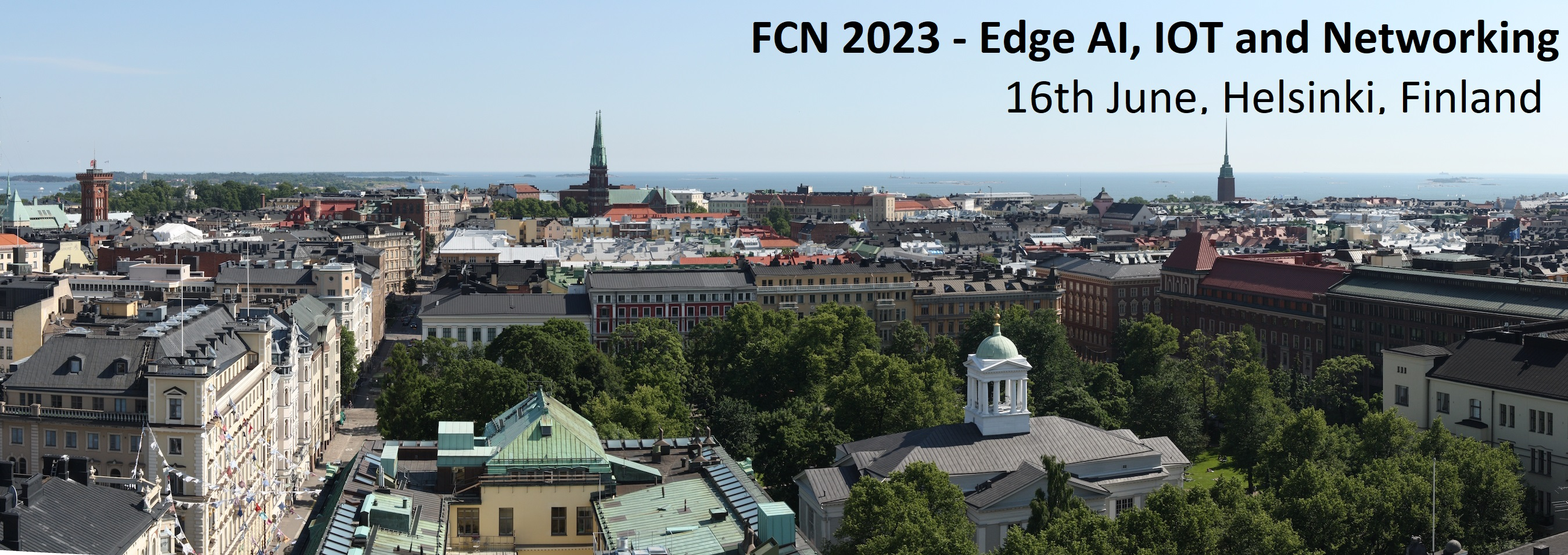
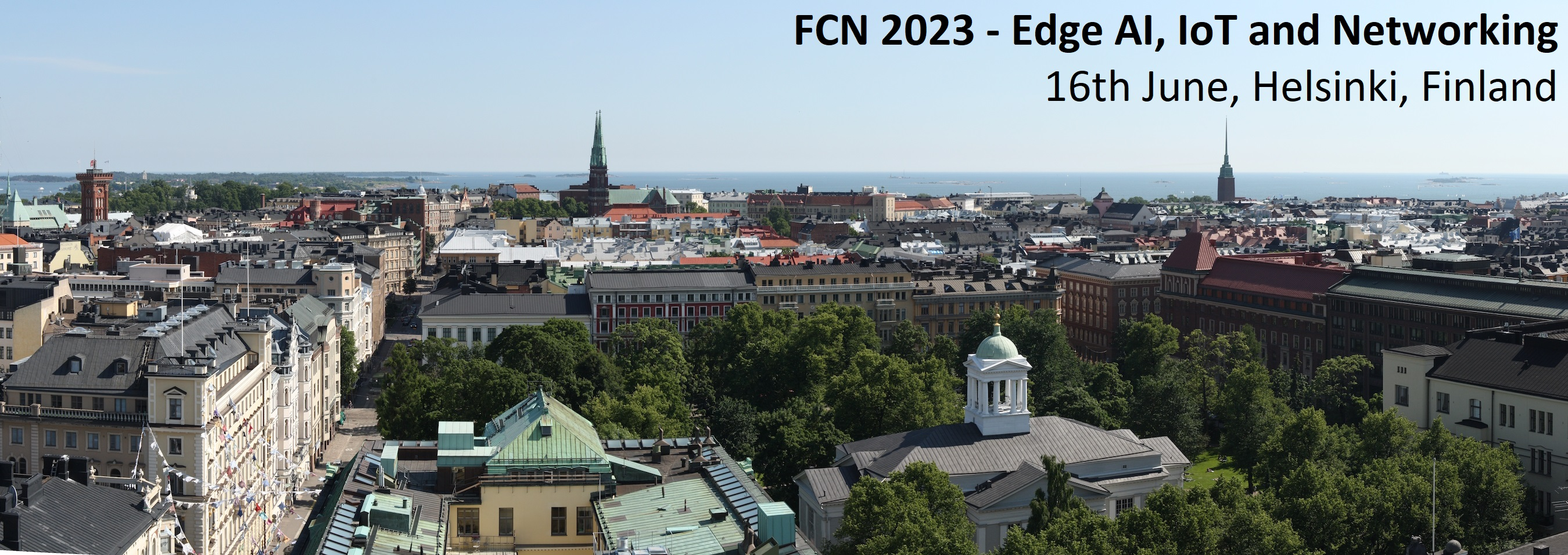
page update

Changed region(s): [[0.4668, 0.0303, 0.9959, 0.2121]]

diff --git a/fcn/2023/participants.html b/fcn/2023/participants.html
@@ -8,7 +8,7 @@
   <!--[if IE]>
     <meta http-equiv="X-UA-Compatible" content="IE=edge,chrome=1">
   <![endif]-->
-  <title>FCN 2022</title>
+  <title>FCN 2023</title>
   <!-- BOOTSTRAP CORE STYLE  -->
   <link href="lib/css/bootstrap.css" rel="stylesheet" />
   <!-- FONT AWESOME ICONS  -->
@@ -28,8 +28,8 @@
 
   <div class="container">
     <div>
-      <p><img src="lib/resources/fcn2022.jpg" class="img-responsive"
-              alt="Delft"><br /></p>
+      <p><img src="lib/resources/fcn2023.jpg" class="img-responsive"
+              alt="Helsinki"><br /></p>
     </div>
 
 
@@ -38,7 +38,7 @@
 			<div class="row">
 				<div class="col-xs-12 col-sm-3">
 
-          <button onclick="location.href='https://cpi-lab.github.io/fcn/2022/'" type="button" class="btn btn-primary btn-block">Home</button>
+          <button onclick="location.href='https://cpi-lab.github.io/fcn/2023/'" type="button" class="btn btn-primary btn-block">Home</button>
           <button type="button" class="btn btn-primary btn-block active">Participants</button>
           <button onclick="location.href='committee.html'" type="button" class="btn btn-primary btn-block">Committee</button>
           <button onclick="location.href='programme.html'" type="button" class="btn btn-primary btn-block">Programme</button>
@@ -51,16 +51,17 @@
 
 
       <div class="col-xs-12 col-sm-9 text-justify">
-			
+	<!--- 		
         <h1>List of Participants</h1>
 	<p>
         <ul>
+		
 	<h3>On-Site Participants</h3>
 		
-
-            <li><a href="https://sk-alg.tbm.tudelft.nl/aaron/" target="_blank">Aaron Ding</a> (TU Delft, The Netherlands)</li>
+ 
+        <li><a href="https://sk-alg.tbm.tudelft.nl/aaron/" target="_blank">Aaron Ding</a> (TU Delft, The Netherlands)</li>
 	    <li><a href="https://www.tudelft.nl/staff/m.e.warnier/?cHash=3001d902267abe0d5c3754b5c2a4a817" target="_blank">Martijn Warnier</a> (TU Delft, The Netherlands)</li>
-            <li><a href="https://scholar.google.com/citations?user=BZocCJwAAAAJ&hl=nl" target="_blank">Marijn Janssen</a> (TU Delft, The Netherlands)</li>
+        <li><a href="https://scholar.google.com/citations?user=BZocCJwAAAAJ&hl=nl" target="_blank">Marijn Janssen</a> (TU Delft, The Netherlands)</li>
 	    <li><a href="https://scholar.google.com/citations?user=1mFRcc0AAAAJ&hl=en" target="_blank">Maarten van Steen</a> (University of Twente, The Netherlands)</li>
 	    <li><a href="https://staff.fnwi.uva.nl/a.d.pimentel/" target="_blank">Andy Pimentel</a> (University of Amsterdam, The Netherlands)</li>
 	    <li><a href="https://scholar.google.nl/citations?user=-NeovbkAAAAJ&hl=en" target="_blank">Nirvana Meratnia</a> (TU Eindhoven, The Netherlands)</li>
@@ -73,7 +74,7 @@
 	    <li><a href="https://www.tudelft.nl/tbm/onze-faculteit/afdelingen/multi-actor-systems/people/assistant-professors/dr-se-simon-parkin" target="_blank">Simon Parkin</a> (TU Delft, The Netherlands)</li>
 	    <li><a href="https://www.cl.cam.ac.uk/~mrd45/" target="_blank">Matthew Danish</a> (Cambridge University, UK)</li>
 	    <li><a href="https://scholar.google.de/citations?user=BRdTMTMAAAAJ&hl=en" target="_blank">Stephan Sigg</a> (Aalto University, Finland)</li>
-            <li><a href="https://sites.google.com/it-caesar.de/homepage/" target="_blank">Holger Caesar</a> (TU Delft, The Netherlands)</li>
+        <li><a href="https://sites.google.com/it-caesar.de/homepage/" target="_blank">Holger Caesar</a> (TU Delft, The Netherlands)</li>
 	    <li><a href="https://scholar.google.com/citations?user=DmY2Hv4AAAAJ&hl=en" target="_blank">Bart van Arem</a> (TU Delft, The Netherlands)</li>
 	    <li><a href="https://mengyingzhou.github.io/" target="_blank">Mengying Zhou</a> (TU Delft | Fudan University, The Netherlands)</li>
 	    <li><a href="https://fernandokuipers.nl/" target="_blank">Fernando Kuipers</a> (TU Delft, The Netherlands)</li>
@@ -135,7 +136,7 @@
             <li><a href="https://scholar.google.be/citations?user=vAPWme0AAAAJ&hl=en" target="_blank">Pieter Simoens</a> (Ghent University imec, Belgium)</li>
             <li><a href="https://scholar.google.com/citations?user=55Lw5_EAAAAJ&hl=en" target="_blank">Mehrdad Asadi</a> (University of Tartu, Estonia)</li>
             <li><a href="https://scholar.google.com/citations?user=mc1M7awAAAAJ&hl=en" target="_blank">Dewant Katare</a> (TU Delft, The Netherlands)</li>
-
+  --->
 	   <!---  
             
 	    <li><a href="https://scholar.google.com/citations?user=0n5S6uUAAAAJ&hl=en" target="_blank">Schahram Dustdar</a> (TU Wien, Austria)</li>
@@ -280,13 +281,13 @@
       <div class="row">
         <div class="col-md-12">
           <p align="center">
-            <a href="https://cpi-lab.github.io/fcn/2022/">Home</a> |
+            <a href="https://cpi-lab.github.io/fcn/2023/">Home</a> |
             <a href="participants.html">Participants</a> |
             <a href="committee.html">Committee</a> |
             <a href="programme.html">Programme</a> |
             <a href="venue.html">Venue</a>
           </p>
-          <p align="center"> &copy; FCN 2022. Powered by <a
+          <p align="center"> &copy; FCN 2023. Powered by <a
                   href="http://getbootstrap.com/" target="_blank">Bootstrap</a>.
           </p>
         <p align="center">

diff --git a/fcn/2023/index.html b/fcn/2023/index.html
@@ -61,9 +61,10 @@
             <div class="panel-body">
 
               <ul>
-                <li><a href="https://cpi-lab.github.io/fcn/2021/">Workshop 2021</a></li>
-		<li><a href="https://cpi-lab.github.io/fcn/2020/">Workshop 2020</a></li>
-		<li><a href="http://fi.ee.tsinghua.edu.cn/~fcg2019/">Workshop 2019</a></li>
+                <li><a href="https://cpi-lab.github.io/fcn/2022/">Workshop 2022</a></li>
+				<li><a href="https://cpi-lab.github.io/fcn/2021/">Workshop 2021</a></li>
+				<li><a href="https://cpi-lab.github.io/fcn/2020/">Workshop 2020</a></li>
+				<li><a href="http://fi.ee.tsinghua.edu.cn/~fcg2019/">Workshop 2019</a></li>
                 <li><a href="http://idatatongji.com/fcg2018/index.html">Workshop 2018</a></li>
                 <li><a href="https://edge17.cm.in.tum.de/index.html">Workshop 2017</a></li>
                 <li><a href="https://www.cs.helsinki.fi/group/close/edge-computing-2016/index.html">Workshop 2016</a></li>
@@ -83,12 +84,12 @@
 			
         <h2>Welcome!</h2>
 				<p>
-The 9th Finland-China-Netherlands workshop on Edge AI, IoT and Networking (FCN 2022) is an academic event jointly organized by TU Delft, University of Helsinki, Tsinghua, TU Munich, and HKUST. The workshop is intended to <a href="https://www.cs.helsinki.fi/en/node/85535">bring together</a> professors, researchers and graduate students to share ideas, experience and implementations related to edge computing, IoT, cyber-physical systems, distributed systems, networking and data analytics.
+The 10th Finland-China-Netherlands workshop on Edge AI, IoT and Networking (FCN 2023) is an academic event jointly organized by University of Helsinki, TU Delft, Tsinghua, TU Munich, and HKUST. The workshop is intended to <a href="https://www.cs.helsinki.fi/en/node/85535">bring together</a> professors, researchers and graduate students to share ideas, experience and implementations related to edge computing, IoT, cyber-physical systems, distributed systems, networking and data analytics.
         </p>
 
   <h3>Host</h3>
+  <a href=https://www.cs.helsinki.fi/en><p> Department of Computer Science, University of Helsinki</p></a>
 
-  <img class="img-responsive" src="lib/resources/TU_Delft_logo_RGB.png" width="230">
 
         <h3>Topics</h3>
         <p>The workshop will cover following areas:</p>
@@ -109,7 +110,7 @@ The 9th Finland-China-Netherlands workshop on Edge AI, IoT and Networking (FCN 2
 
         <h3>Workshop Date</h3>
         <ul>
-          <li>Workshop: November 29, 2022</li>
+          <li>Workshop: June 16, 2023</li>
         </ul>
         <br>
 
@@ -122,13 +123,13 @@ The 9th Finland-China-Netherlands workshop on Edge AI, IoT and Networking (FCN 2
       <div class="row">
         <div class="col-md-12">
           <p align="center">
-            <a href="https://cpi-lab.github.io/fcn/2022/">Home</a> |
+            <a href="https://cpi-lab.github.io/fcn/2023/">Home</a> |
             <a href="participants.html">Participants</a> |
             <a href="committee.html">Committee</a> |
             <a href="programme.html">Programme</a> |
             <a href="venue.html">Venue</a>
           </p>
-          <p align="center"> &copy; FCN 2022. Powered by <a
+          <p align="center"> &copy; FCN 2023. Powered by <a
                   href="http://getbootstrap.com/" target="_blank">Bootstrap</a>.
           </p>
         <p align="center">

diff --git a/fcn/2023/venue.html b/fcn/2023/venue.html
@@ -8,7 +8,7 @@
   <!--[if IE]>
     <meta http-equiv="X-UA-Compatible" content="IE=edge,chrome=1">
   <![endif]-->
-  <title>FCN 2022</title>
+  <title>FCN 2023</title>
   <!-- BOOTSTRAP CORE STYLE  -->
   <link href="lib/css/bootstrap.css" rel="stylesheet" />
   <!-- FONT AWESOME ICONS  -->
@@ -28,8 +28,8 @@
 
   <div class="container">
     <div>
-      <p><img src="lib/resources/fcn2022.jpg" class="img-responsive"
-              alt="Delft"><br /></p>
+      <p><img src="lib/resources/fcn2023.jpg" class="img-responsive"
+              alt="Helsinki"><br /></p>
     </div>
 
 
@@ -38,7 +38,7 @@
 			<div class="row">
 				<div class="col-xs-12 col-sm-3">
 
-          <button onclick="location.href='https://cpi-lab.github.io/fcn/2022/'" type="button" class="btn btn-primary btn-block">Home</button>
+          <button onclick="location.href='https://cpi-lab.github.io/fcn/2023/'" type="button" class="btn btn-primary btn-block">Home</button>
           <button onclick="location.href='participants.html'" type="button" class="btn btn-primary btn-block">Participants</button>
           <button onclick="location.href='committee.html'" type="button" class="btn btn-primary btn-block">Committee</button>
           <button onclick="location.href='programme.html'" type="button" class="btn btn-primary btn-block">Programme</button>
@@ -49,8 +49,9 @@
 
 
       <div class="col-xs-12 col-sm-9 text-justify">
-			
-        <h2>Venue</h2>
+	  
+        <h2>Venue - To be announced Soon!</h2>
+		<!---
 	<p>
           The workshop will be organized in hybrid environment at <strong>Hall I (A1.250)</strong>, <a href="https://www.tudelft.nl/en/tpm/" target="_blank"> Faculty of Technology, Policy and Management (TPM)</a>. Participants will also receive invitation details for virtual and in-person participation. <br>
 	</p>
@@ -113,7 +114,7 @@
 
 <p>Delft has a shuttle service running every day from 10:30 to 17:00. There are several stops around the city, including one at TU Delft library, near to AULA and TPM. The day ticket costs 4€.</p>
 
-
+--->
         <br />
       </div>
     </div>
@@ -124,13 +125,13 @@
       <div class="row">
         <div class="col-md-12">
           <p align="center">
-            <a href="https://cpi-lab.github.io/fcn/2022/">Home</a> |
+            <a href="https://cpi-lab.github.io/fcn/2023/">Home</a> |
             <a href="participants.html">Participants</a> |
             <a href="committee.html">Committee</a> |
             <a href="programme.html">Programme</a> |
             <a href="venue.html">Venue</a>
           </p>
-          <p align="center"> &copy; FCN 2022. Powered by <a
+          <p align="center"> &copy; FCN 2023. Powered by <a
                   href="http://getbootstrap.com/" target="_blank">Bootstrap</a>.
           </p>
         <p align="center">

diff --git a/fcn/2023/programme.html b/fcn/2023/programme.html
@@ -8,7 +8,7 @@
   <!--[if IE]>
     <meta http-equiv="X-UA-Compatible" content="IE=edge,chrome=1">
   <![endif]-->
-  <title>FCN 2022</title>
+  <title>FCN 2023</title>
   <!-- BOOTSTRAP CORE STYLE  -->
   <link href="lib/css/bootstrap.css" rel="stylesheet" />
   <!-- FONT AWESOME ICONS  -->
@@ -37,8 +37,8 @@ p {text-align: center;}
 
   <div class="container">
     <div>
-      <p><img src="lib/resources/fcn2022.jpg" class="img-responsive"
-              alt="Delft"><br /></p>
+      <p><img src="lib/resources/fcn2023.jpg" class="img-responsive"
+              alt="Helsinki"><br /></p>
     </div>
 
 
@@ -47,7 +47,7 @@ p {text-align: center;}
 			<div class="row">
 				<div class="col-xs-12 col-sm-3">
 
-          <button onclick="location.href='https://cpi-lab.github.io/fcn/2022/'" type="button" class="btn btn-primary btn-block">Home</button>
+          <button onclick="location.href='https://cpi-lab.github.io/fcn/2023/'" type="button" class="btn btn-primary btn-block">Home</button>
           <button onclick="location.href='participants.html'" type="button" class="btn btn-primary btn-block">Participants</button>
           <button onclick="location.href='committee.html'" type="button" class="btn btn-primary btn-block">Committee</button>
           <button type="button" class="btn btn-primary btn-block active">Programme</button>
@@ -59,8 +59,12 @@ p {text-align: center;}
 
 
       <div class="col-xs-12 col-sm-9 text-justify">
+	  
+	  <h3 style="text-align:center"> ⚠ Coming Soon !⚠ </h3> 
     
-        <h2>Program</h2>
+        <!---
+		<h2>Program</h2>
+		
         <h3 style="text-align:center"> ⚠ The time listed below is Dutch localtime: CET ~ UTC+1 ⚠ </h3>
         <br />
 	      
@@ -136,6 +140,8 @@ p {text-align: center;}
                 
           </table>
         <br />
+		
+		--->
 
 	<!---
           <p><b>Breakout Session 1 (11:00 - 11:30)</b><br /><p>1) Edge intelligence and data analytics<br> 2) Applied edge computing and edge services<br> 3) Edge systems, networking, IoT</p></p>
@@ -215,13 +221,13 @@ p {text-align: center;}
       <div class="row">
         <div class="col-md-12">
           <p align="center">
-            <a href="https://cpi-lab.github.io/fcn/2022/">Home</a> |
+            <a href="https://cpi-lab.github.io/fcn/2023/">Home</a> |
             <a href="participants.html">Participants</a> |
             <a href="committee.html">Committee</a> |
             <a href="programme.html">Programme</a> |
             <a href="venue.html">Venue</a>
           </p>
-          <p align="center"> &copy; FCN 2022. Powered by <a
+          <p align="center"> &copy; FCN 2023. Powered by <a
                   href="http://getbootstrap.com/" target="_blank">Bootstrap</a>.
           </p>
         <p align="center">

diff --git a/fcn/2023/hotel-info.html b/fcn/2023/hotel-info.html
@@ -8,7 +8,7 @@
   <!--[if IE]>
     <meta http-equiv="X-UA-Compatible" content="IE=edge,chrome=1">
   <![endif]-->
-  <title>FCN 2022</title>
+  <title>FCN 2023</title>
   <!-- BOOTSTRAP CORE STYLE  -->
   <link href="lib/css/bootstrap.css" rel="stylesheet" />
   <!-- FONT AWESOME ICONS  -->
@@ -28,8 +28,8 @@
 
   <div class="container">
     <div>
-      <p><img src="lib/resources/fcn2022.jpg" class="img-responsive"
-              alt="Delft"><br /></p>
+      <p><img src="lib/resources/fcn2023.jpg" class="img-responsive"
+              alt="Helsinki"><br /></p>
     </div>
 
 
@@ -38,7 +38,7 @@
 			<div class="row">
 				<div class="col-xs-12 col-sm-3">
 
-          <button onclick="location.href='https://cpi-lab.github.io/fcn/2022/'" type="button" class="btn btn-primary btn-block">Home</button>
+          <button onclick="location.href='https://cpi-lab.github.io/fcn/2023/'" type="button" class="btn btn-primary btn-block">Home</button>
           <button onclick="location.href='participants.html'" type="button" class="btn btn-primary btn-block">Participants</button>
           <button onclick="location.href='committee.html'" type="button" class="btn btn-primary btn-block">Committee</button>
           <button onclick="location.href='programme.html'" type="button" class="btn btn-primary btn-block">Programme</button>
@@ -49,7 +49,7 @@
 
 
       <div class="col-xs-12 col-sm-9 text-justify">
-			
+		<!---	
         <h2>Workshop Venue</h2>
 	<p>
    The workshop is organized at <strong>Hall I (A1.250)</strong>, <a href="https://www.tudelft.nl/en/tpm/" target="_blank"> Faculty of Technology, Policy and Management (TPM)</a>. Hotel's closed to the city center will allow you to access the workshop venue either by foot, or using public transportation. A list of suggested accommodation options according to shortest distance to the venue is mentioned below.<br /><br />
@@ -94,6 +94,7 @@
         <br>
 	      
         <br>
+		--->
 
         <br />
       </div>
@@ -105,13 +106,13 @@
       <div class="row">
         <div class="col-md-12">
           <p align="center">
-            <a href="https://cpi-lab.github.io/fcn/2022/">Home</a> |
+            <a href="https://cpi-lab.github.io/fcn/2023/">Home</a> |
             <a href="participants.html">Participants</a> |
             <a href="committee.html">Committee</a> |
             <a href="programme.html">Programme</a> |
             <a href="venue.html">Venue</a>
           </p>
-          <p align="center"> &copy; FCN 2022. Powered by <a
+          <p align="center"> &copy; FCN 2023. Powered by <a
                   href="http://getbootstrap.com/" target="_blank">Bootstrap</a>.
           </p>
         <p align="center">

diff --git a/fcn/2023/committee.html b/fcn/2023/committee.html
@@ -8,7 +8,7 @@
   <!--[if IE]>
     <meta http-equiv="X-UA-Compatible" content="IE=edge,chrome=1">
   <![endif]-->
-  <title>FCN 2022</title>
+  <title>FCN 2023</title>
   <!-- BOOTSTRAP CORE STYLE  -->
   <link href="lib/css/bootstrap.css" rel="stylesheet" />
   <!-- FONT AWESOME ICONS  -->
@@ -32,8 +32,8 @@
 
   <div class="container">
     <div>
-      <p><img src="lib/resources/fcn2022.jpg" class="img-responsive"
-              alt="Delft"><br /></p>
+      <p><img src="lib/resources/fcn2023.jpg" class="img-responsive"
+              alt="Helsinki"><br /></p>
     </div>
 
 
@@ -42,7 +42,7 @@
       <div class="row">
         <div class="col-xs-12 col-sm-3">
 
-          <button onclick="location.href='https://cpi-lab.github.io/fcn/2022/'" type="button" class="btn btn-primary btn-block">Home</button>
+          <button onclick="location.href='https://cpi-lab.github.io/fcn/2023/'" type="button" class="btn btn-primary btn-block">Home</button>
           <button onclick="location.href='participants.html'" type="button" class="btn btn-primary btn-block">Participants</button>
           <button type="button" class="btn btn-primary btn-block active">Committee</button>
           <button onclick="location.href='programme.html'" type="button" class="btn btn-primary btn-block">Programme</button>
@@ -55,7 +55,8 @@
       <div class="col-xs-12 col-sm-9 text-justify">
       
         <h2>FCN Committee</h2>
-        <h3>Workshop Chair</h3>
+        <!---
+		<h3>Workshop Chair</h3>
         <ul>
 
             <li><a href="https://sk-alg.tbm.tudelft.nl/aaron/" target="_blank">Aaron Ding</a> (TU Delft, Netherlands)</li>
@@ -83,7 +84,7 @@
             <li><a href="https://www.tudelft.nl/tbm/onze-faculteit/afdelingen/engineering-systems-and-services/people/phd-candidates/d-dewant-katare" target="_blank">Dewant Katare</a> (TU Delft, Netherlands)</li>
 
           </ul>
-
+--->
       <br>
 
       </div>
@@ -97,13 +98,13 @@
       <div class="row">
         <div class="col-md-12">
           <p align="center">
-            <a href="https://cpi-lab.github.io/fcn/2022/">Home</a> |
+            <a href="https://cpi-lab.github.io/fcn/2023/">Home</a> |
             <a href="participants.html">Participants</a> |
             <a href="committee.html">Committee</a> |
             <a href="programme.html">Programme</a> |
             <a href="venue.html">Venue</a>
           </p>
-          <p align="center"> &copy; FCN 2022. Powered by <a
+          <p align="center"> &copy; FCN 2023. Powered by <a
                   href="http://getbootstrap.com/" target="_blank">Bootstrap</a>.
           </p>
         <p align="center">
